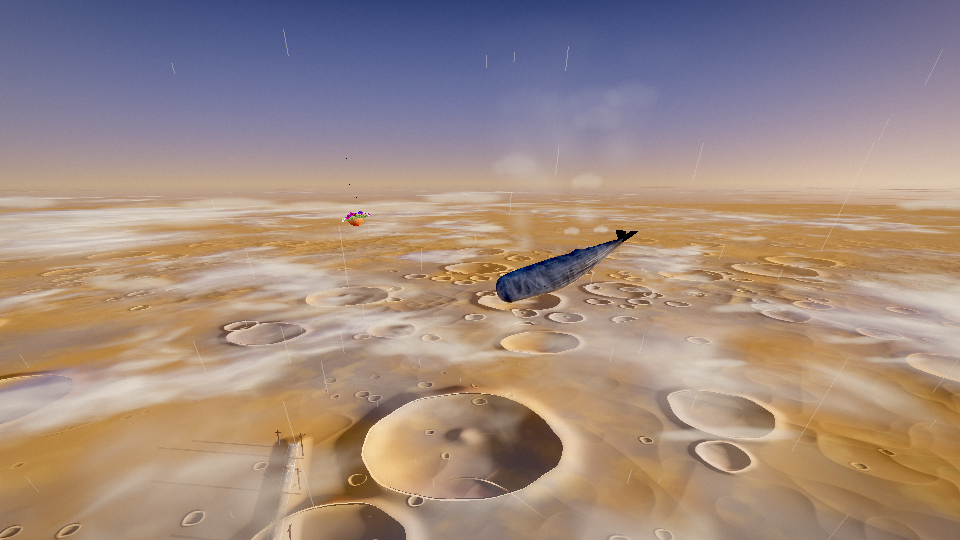
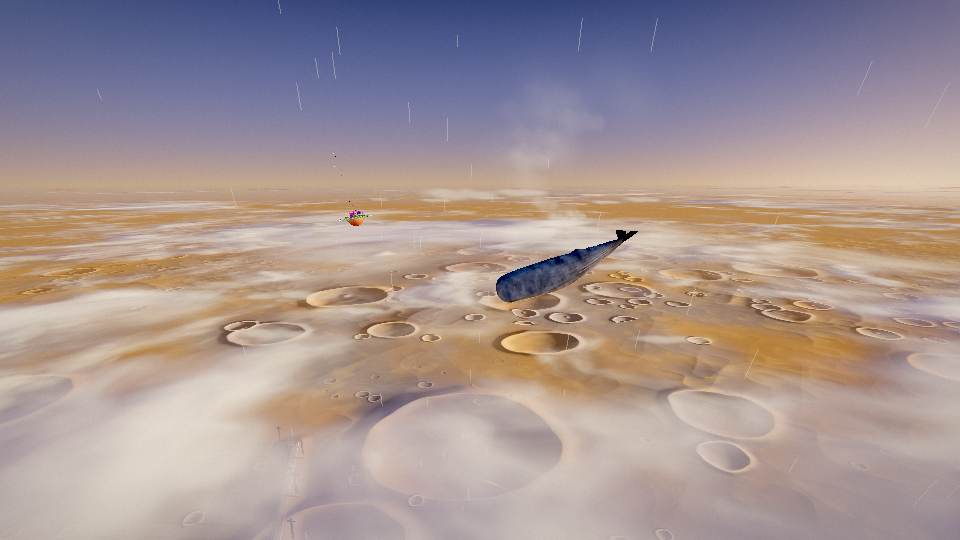
Update Hitchhiker's world drafts in progress
Claude-Session: https://claude.ai/code/session_014rHGNtLvWQpNyDwLLDYadp

diff --git a/src/worlds/the-sky-over-krikkit.js b/src/worlds/the-sky-over-krikkit.js
@@ -223,12 +223,12 @@ void main() {
   gl_Position = projectionMatrix * mv;
 }`;
 const PUFF_FRAG = /* glsl */`
-uniform sampler2D uTex; uniform vec3 fogColor; uniform float fogDensity, uOpacity, uStar, uAbove, uNear;
+uniform sampler2D uTex; uniform vec3 fogColor; uniform float fogDensity, uOpacity, uStar, uAbove, uNear, uInside;
 varying vec2 vUv; varying float vDepth, vLit, vKind, vSeed;
 void main() {
   vec2 uv = vUv; if (vSeed > 0.5) uv.x = 1.0 - uv.x;
   vec4 t = texture2D(uTex, uv);
-  float a = t.a * uOpacity * smoothstep(uNear * 0.2, uNear, vDepth);
+  float a = t.a * uOpacity * smoothstep(uNear * 0.2, uNear, vDepth) * clamp(vLit * 6.0 + uInside, 0.0, 1.0);
   if (a < 0.004) discard;
   vec3 dust = mix(vec3(0.020, 0.017, 0.024), vec3(0.060, 0.052, 0.066), t.r);
   vec3 warm = vec3(1.0, 0.52, 0.20) * vLit * (0.25 + 0.75 * t.r);
@@ -351,7 +351,7 @@ export default {
 
     // ---- the road of the flight ----
     const gy = (x, z, up) => height(x, z) + up;
-    const PTS = [[-40, gy(-40, 140, 34), 140], [-30, gy(-30, 0, 32), 0], [8, gy(8, -165, 30) + 6, -165], [34, gy(34, -330, 32), -330], [12, gy(12, -500, 34), -500],
+    const PTS = [[-40, gy(-40, 140, 34), 140], [-30, gy(-30, 0, 32), 0], [-14, gy(-14, -165, 30) + 7, -165], [34, gy(34, -330, 32), -330], [12, gy(12, -500, 34), -500],
       [-10, gy(-10, -680, 36), -680], [0, gy(0, -860, 40), -860], [0, PAD_Y + 56, -1010], [0, 330, -1160], [0, 640, -1330], [0, 1000, -1520], [0, 1340, -1720],
       [0, 1590, -1930], [0, 1700, -2160], [0, TOP_Y, -2400], [0, TOP_Y, -2640]];
     const path = makePath(PTS), LEN = path.length;
@@ -420,7 +420,8 @@ export default {
     // the bridge: where the main lane meets the river
     let BZ = -170; for (let i = 0; i < 12; i++) BZ = riverZ(laneX(BZ));
     const BX = laneX(BZ), BRIDGE_Y = waterY(BX) + 4.6;
-    const laneY = (x, z) => { const d = Math.hypot(x - BX, z - BZ); return d < 30 ? Math.max(height(x, z), BRIDGE_Y - 0.25 - 2.2 * (d / 30) ** 2 * 0) : height(x, z); };
+    const bridgeTop = (d) => (d <= 30 ? BRIDGE_Y + 1.5 * (1 - (d / 30) ** 2) : BRIDGE_Y - (d - 30) * 0.3);
+    const laneY = (x, z) => { const d = Math.hypot(x - BX, z - BZ); return d < 46 ? Math.max(height(x, z), bridgeTop(d)) : height(x, z); };
     // walk a lane: points every `step` metres with the lane's direction
     function walk(poly, step, fn) {
       let carry = 0;
@@ -455,6 +456,8 @@ export default {
       } else parts.push([BOX, '#2a2019', M(0, 1.9, k.d / 2 + 0.05, 4.2, 3.8, 0.12)], [BOX, '#2a2019', M(0, k.h + 0.9, k.d / 2 + 0.05, 1.2, 1.2, 0.1)]);
       return keep(mergeGeo(parts));
     });
+    const HALL = [GREEN[0] - GREEN_R - 42, GREEN[1] + 44], MILL = [-196, riverZ(-196) - 21];
+    const blocks = [{ x: HALL[0], z: HALL[1], r: 15 }, { x: MILL[0], z: MILL[1], r: 13 }];      // ground kept for the hall and the mill
     const houses = [], winM = [], winC = [], RH = R.houses;
     const _m = new THREE.Matrix4(), _c = new THREE.Color();
     const WINCOL = [[2.6, 1.6, 0.62], [2.8, 1.35, 0.42], [2.3, 1.75, 0.9], [2.9, 1.9, 0.7], [1.5, 1.7, 2.0]];
@@ -492,7 +495,8 @@ export default {
     const houseOK = (x, z, r, top) => {
       if (riverDist(x, z) < 27 + r * 0.4) return false;
       if (Math.hypot(x - HILL[0], z - HILL[1]) < 215 || Math.hypot(x - KNOLL[0], z - KNOLL[1]) < 44) return false;
-      if (Math.hypot(x - GREEN[0], z - GREEN[1]) < GREEN_R + 20 + r * 0.5) return false;
+      if (Math.hypot(x - GREEN[0], z - GREEN[1]) < GREEN_R + 15 + r * 0.3) return false;
+      for (const b of blocks) if (Math.hypot(b.x - x, b.z - z) < b.r + r) return false;
       if (!clearOfRoad(x, z, height(x, z) + top)) return false;
       for (const h of houses) if (Math.hypot(h.x - x, h.z - z) < h.r + r + 2.5) return false;
       return true;
@@ -511,7 +515,7 @@ export default {
       });
     }
     settle(lanes.main.filter((p) => p[1] > -770), 19, [1, -1], 0.86, [0, 0, 1, 2, 0, 2]);
-    settle(lanes.ring, 19, [1], 0.95, [2, 2, 0, 1]);      // the ring's right hand is outward: the houses face the green
+    settle(lanes.ring, 19, [-1], 0.95, [2, 2, 0, 1]);      // outward of the ring: the houses face the green
     settle(lanes.south, 21, [1, -1], 0.7, [0, 1, 0, 3]);
     settle(lanes.north, 22, [-1], 0.7, [0, 1, 2]);
     settle(lanes.east, 22, [1, -1], 0.75, [0, 1, 2, 0, 3]);
@@ -568,12 +572,12 @@ export default {
     // the bridge: a stone hump with parapets, two piers, a lamp at each corner
     {
       const ry = Math.atan2(laneX(BZ - 4) - laneX(BZ + 4), -8), parts = [];
-      for (let i = -4; i <= 4; i++) { const zz = i * 4, hump = 1.5 * (1 - (i / 4.6) ** 2); parts.push([BOX, '#7d776d', M(0, hump - 0.5, zz, 6.4, 1.0, 4.3, 0, -Math.atan(-2 * 1.5 * i / (4.6 * 4.6) / 4) * 0)]);
+      for (let i = -7; i <= 7; i++) { const zz = i * 4, hump = 1.5 * (1 - (zz / 30) ** 2); parts.push([BOX, '#7d776d', M(0, hump - 0.75, zz, 6.4, 1.5, 4.3)]);
         for (const sx of [-1, 1]) parts.push([BOX, '#8a847a', M(sx * 3.0, hump + 0.45, zz, 0.5, 1.0, 4.3)]); }
-      for (const pz of [-7, 7]) parts.push([BOX, '#6a655d', M(0, -3.2, pz, 6.0, 6.0, 2.2)]);
+      for (const pz of [-9, 0, 9]) parts.push([BOX, '#6a655d', M(0, -3.0, pz, 6.0, 7.0, 2.2)]);
       addSet(parts, BX, BRIDGE_Y, BZ, ry, new THREE.Color(1.5, 1.25, 1.0));
       const L = local(BX, BZ, ry);
-      for (const [lx, lz] of [[-3, -17], [3, -17], [-3, 17], [3, 17], [-3, 0], [3, 0]]) { const p = L(lx, lz); lamp(p[0], BRIDGE_Y + (lz === 0 ? 4.4 : 3.6), p[1], WARM, 2.6, 9, 1.1); }
+      for (const [lx, lz] of [[-3, -27], [3, -27], [-3, 27], [3, 27], [-3, -9], [3, 9]]) { const p = L(lx, lz); lamp(p[0], bridgeTop(Math.abs(lz)) + 1.9, p[1], WARM, 2.6, 9, 1.1); }
     }
     // the green: a pavilion on its north side, a pole in the middle with strings of lights out to a ring of poles
     const poleM = [];
@@ -602,11 +606,11 @@ export default {
     }
     // the meeting hall with its bell tower, west of the green
     {
-      const x = GREEN[0] - GREEN_R - 34, z = GREEN[1] + 44, y = height(x, z), parts = [];
+      const x = HALL[0], z = HALL[1], y = height(x, z), parts = [];
       parts.push([BOX, '#d9d5ca', M(0, 3.4, 0, 9, 7.6, 18)], [PRISM, '#2c3038', M(0, 7.2, 0, 10.2, 4.6, 19)], [BOX, '#d2cec3', M(0, 7.5, 11.2, 5.2, 15.8, 5.2)],
         [BOX, '#3a3f49', M(0, 15.6, 11.2, 5.9, 0.3, 5.9)], [CONE, '#2c3038', M(0, 18.6, 11.2, 4.0, 6.0, 4.0, Math.PI / 4)], [BOX, '#2f241b', M(0, 1.5, 13.84, 2.0, 3.0, 0.12)]);
-      if (houseOK(x, z, 12, 22)) {
-        addSet(parts, x, y, z, 0, new THREE.Color(1.35, 1.2, 1.0)); houses.push({ x, z, r: 13 });
+      {
+        addSet(parts, x, y, z, 0, new THREE.Color(1.35, 1.2, 1.0));
         for (let i = 0; i < 4; i++) for (const sx of [-1, 1]) { winM.push(M(x + sx * 4.56, y + 3.9, z - 6 + i * 4, 0.1, 3.0, 1.1)); winC.push(2.9, 1.9, 0.75); stamp(x + sx * 8, z - 6 + i * 4, 6, WARM, 0.6); }
         for (const [dx, dz, tw] of [[0, 2.66, 0], [2.66, 0, 1], [-2.66, 0, 1]]) { winM.push(M(x + dx, y + 13.2, z + 11.2 + dz, tw ? 0.1 : 1.2, 1.8, tw ? 1.2 : 0.1)); winC.push(2.6, 1.7, 0.7); }
         lamp(x + 1.8, y + 3.4, z + 14.3, WARM, 2.4, 9, 1.1);
@@ -615,9 +619,9 @@ export default {
     // the mill on the north bank, its wheel in the water
     let wheel = null;
     {
-      const x = -196, z = riverZ(-196) - 21, y = height(x, z), wy = waterY(x), parts = [];
+      const x = MILL[0], z = MILL[1], y = height(x, z), wy = waterY(x), parts = [];
       parts.push([BOX, '#9a9388', M(0, 3.8, 0, 11, 8.6, 9)], [PRISM, '#3a2f26', M(0, 8.0, 0, 10.2, 4.2, 12, Math.PI / 2)], [BOX, '#6b655c', M(0, 0.6, 7, 3, 2.4, 6)]);
-      addSet(parts, x, y, z, 0, new THREE.Color(1.3, 1.15, 1.0)); houses.push({ x, z, r: 11 });
+      addSet(parts, x, y, z, 0, new THREE.Color(1.3, 1.15, 1.0));
       const wp = [[CYL, '#3a2c20', M(0, 0, 0, 0.5, 2.6, 0.5, 0, 0, Math.PI / 2)]];
       for (let i = 0; i < 12; i++) { const a = i / 12 * 6.283; wp.push([BOX, '#4a3828', M(0, Math.cos(a) * 2.4, Math.sin(a) * 2.4, 0.16, 4.8, 0.16, 0, a)], [BOX, '#5a4634', M(0, Math.cos(a) * 4.6, Math.sin(a) * 4.6, 2.2, 0.12, 1.3, 0, a)]); }
       for (const sx of [-1, 1]) wp.push([keep(new THREE.TorusGeometry(4.7, 0.14, 5, 28)), '#4a3828', M(sx * 1.0, 0, 0, 1, 1, 1, Math.PI / 2)]);
@@ -724,7 +728,7 @@ export default {
     }
     const LAMP_GAIN = 9;
     // what a standing thing takes from the lamps round it: a tint over its own colour
-    const tintAt = (x, z, base = 1, k = 4.2) => { const l = Math.min(2.2, lampAt(x, z)); return _c.setRGB(base * (1 + l * k * 1.25), base * (1 + l * k * 0.85), base * (1 + l * k * 0.4)); };
+    const tintAt = (x, z, base = 1, k = 4.2) => { const l = Math.min(1.4, lampAt(x, z)); return _c.setRGB(base * (1 + l * k * 1.25), base * (1 + l * k * 0.85), base * (1 + l * k * 0.4)); };
     await ctx.yield();
 
     // =====================================================================================================
@@ -926,8 +930,9 @@ export default {
     // the fire's own glare: one big soft point that goes with the ship
     const flareU = { ...FOGU(), uTime, uPx, uMax: { value: 700 }, uGain: { value: 0 } };
     const flarePos = new Float32Array(6);
+    let flareGeo;
     {
-      const g = keep(new THREE.BufferGeometry());
+      const g = flareGeo = keep(new THREE.BufferGeometry());
       g.setAttribute('position', new THREE.BufferAttribute(flarePos, 3)); g.setAttribute('aCol', new THREE.BufferAttribute(new Float32Array([2.4, 1.5, 0.7, 0.9, 0.42, 0.14]), 3));
       g.setAttribute('aSize', new THREE.BufferAttribute(new Float32Array([26, 130]), 1)); g.setAttribute('aPh', new THREE.BufferAttribute(new Float32Array([0.2, 0.7]), 1));
       const pts = new THREE.Points(g, keep(new THREE.ShaderMaterial({ uniforms: flareU, vertexShader: GLOW_VERT, fragmentShader: GLOW_FRAG, fog: true, transparent: true, depthWrite: false, blending: THREE.AdditiveBlending })));
@@ -965,7 +970,7 @@ export default {
       list.forEach((p, i) => { iPos.set([p[0], p[1], p[2]], i * 3); iSize.set([p[3], p[4]], i * 2); iSeed[i] = R.cloud(); iKind[i] = p[5]; iTrail.set(nearTrail(p[0], p[1], p[2]), i * 2); });
       g.setAttribute('iPos', new THREE.InstancedBufferAttribute(iPos, 3)); g.setAttribute('iSize', new THREE.InstancedBufferAttribute(iSize, 2)); g.setAttribute('iSeed', new THREE.InstancedBufferAttribute(iSeed, 1));
       g.setAttribute('iTrail', new THREE.InstancedBufferAttribute(iTrail, 2)); g.setAttribute('iKind', new THREE.InstancedBufferAttribute(iKind, 1)); g.instanceCount = n;
-      const uniforms = { ...FOGU(), uTex: { value: puffTex }, uShip, uFlame, uShipQ, uStar, uAbove, uScale: { value: 1 }, uOpacity: { value: 1 }, uNear: { value: 150 }, uLitR: { value: 190 }, ...extra };
+      const uniforms = { ...FOGU(), uTex: { value: puffTex }, uShip, uFlame, uShipQ, uStar, uAbove, uScale: { value: 1 }, uOpacity: { value: 1 }, uInside: { value: 1 }, uNear: { value: 150 }, uLitR: { value: 190 }, ...extra };
       const mesh = new THREE.Mesh(g, keep(new THREE.ShaderMaterial({ uniforms, vertexShader: PUFF_VERT, fragmentShader: PUFF_FRAG, fog: true, transparent: true, depthWrite: false })));
       mesh.frustumCulled = false; scene.add(mesh); return { mesh, uniforms };
     }
@@ -1062,7 +1067,7 @@ export default {
     // =====================================================================================================
     const eye = new THREE.Vector3(), shipPos = new THREE.Vector3(), shipTan = new THREE.Vector3(), buf = new THREE.Vector2(), fogC = new THREE.Color();
     const shipAt = (u, out) => trailPoint(shipQ(u), out);
-    const flameAt = (u) => (u < U_L ? 0.16 * ss(0.0, 0.03, u) + 0.1 : u < U_E ? ss(U_L, U_L + 0.025, u) * 0.75 + 0.25 : 1 - ss(U_E, U_E + 0.02, u));
+    const flameAt = (u) => (u < U_L ? 0.07 + 0.08 * ss(0.04, U_L, u) : u < U_E ? ss(U_L, U_L + 0.025, u) * 0.75 + 0.25 : 1 - ss(U_E, U_E + 0.02, u));
     function update(dt, time, camera, u = 0) {
       uTime.value = time;
       if (ctx.renderer) { ctx.renderer.getDrawingBufferSize(buf); uPx.value = buf.y / (2 * Math.tan((camera.fov || 62) * Math.PI / 360)); uPxS.value = buf.y / 760; }
@@ -1079,9 +1084,9 @@ export default {
       if (u >= U_E) ship.rotateZ(0.5 * ss(U_E, 1, u) + 0.05 * Math.sin(time * 0.5));      // spent, she lies over and stops, and so do they
       flame.visible = fl > 0.02; flame.scale.set(0.6 + 0.6 * fl, (0.25 + 1.5 * fl) * flick, 0.6 + 0.6 * fl);
       uShip.value.copy(shipPos); uShipQ.value = q; uFlame.value = fl * flick;
-      fire.position.copy(shipPos); fire.position.y += 3; fire.intensity = 52000 * fl * flick;
+      fire.position.copy(shipPos); fire.position.y += 3; fire.intensity = 30000 * fl * flick;
       flarePos.set([shipPos.x - shipTan.x * 3, shipPos.y - shipTan.y * 3, shipPos.z - shipTan.z * 3, shipPos.x - shipTan.x * 6, shipPos.y - shipTan.y * 6, shipPos.z - shipTan.z * 6]);
-      flareU.uGain.value = fl * flick * 1.5; flareU.uTime.value = time;
+      flareGeo.attributes.position.needsUpdate = true; flareU.uGain.value = fl * flick * 1.5;
       // the air: clear night below, dust in the cloud, nothing above it
       const inDust = ss(CLOUD_LO - 140, CLOUD_LO + 160, y) * (1 - ss(CLOUD_HI - 190, CLOUD_HI + 30, y)), above = ss(CLOUD_HI - 70, CLOUD_HI + 110, y);
       scene.fog.density = lerp(lerp(0.00055, 0.0033, inDust), 0.00002, above);
@@ -1091,7 +1096,7 @@ export default {
       // the stars: none at all until the top of the cloud
       const show = ss(CLOUD_HI - 120, CLOUD_HI + 200, y);
       sky.visible = show > 0.001; uShow.value = show; uStar.value = show; uAbove.value = above;
-      dustIn.mesh.visible = y < CLOUD_HI + 260 && y > 60; deck.visible = y > CLOUD_HI - 55;
+      dustIn.mesh.visible = y < CLOUD_HI + 260; dustIn.uniforms.uInside.value = ss(CLOUD_LO - 260, CLOUD_LO - 40, y); deck.visible = y > CLOUD_HI - 55;
       dustIn.uniforms.uOpacity.value = 0.9; dustTop.uniforms.uOpacity.value = 0.96;
       // the pad's smoke swells and thins
       const since = Math.max(0, u - U_L + 0.012);

diff --git a/src/worlds/outside-the-asylum.js b/src/worlds/outside-the-asylum.js
@@ -190,7 +190,16 @@ export default {
             float fres = pow(1.0 - max(dot(N, V), 0.0), 3.0);
             vec3 col = mix(lin(vec3(0.40, 0.30, 0.20)), skyMirror(reflect(-V, N), uSun), 0.10 + fres * 0.5);
             col += lin(vec3(1.0, 0.82, 0.55)) * pow(max(dot(N, normalize(uSun + V)), 0.0), 220.0) * 2.0;
-            gl_FragColor = vec4(col, wetK * (0.45 + 0.3 * fres));
+            float a = wetK * (0.45 + 0.3 * fres);
+            // the last wave's thin film, sliding up and back in step with the sea, with a rim of foam; and the lace older waves left
+            float fe = 87.0 - 4.2 * sin(uTime * 0.55 + vW.x * 0.012) - 1.8 * sin(uTime * 0.31 + vW.x * 0.031) + (n - 0.5) * 5.0;
+            float film = smoothstep(fe - 0.4, fe + 1.2, vW.z);
+            col = mix(col, skyMirror(reflect(-V, N), uSun) * 0.95 + lin(vec3(0.10, 0.20, 0.20)) * 0.3, film * (0.4 + 0.55 * fres)); a = mix(a, 0.9, film);
+            float h2 = vnoise(vW.xz * 1.9), rim = smoothstep(1.3, 0.0, abs(vW.z - fe - 0.3)) * (0.55 + 0.45 * h2);
+            float lace = smoothstep(0.07, 0.0, abs(fract((vW.z + n * 16.0 + sin(vW.x * 0.07) * 2.0) * 0.14) - 0.5)) * smoothstep(0.45, 0.8, h2) * (1.0 - film) * wetK * 0.6;
+            col = mix(col, lin(vec3(1.0, 0.96, 0.90)), clamp(rim + lace, 0.0, 1.0)); a = max(a, clamp(rim + lace, 0.0, 1.0) * wetK);
+            col += lin(vec3(1.0, 0.9, 0.7)) * step(0.985, vnoise(vW.xz * 9.0)) * wetK * 0.6;      // grains that catch the sun
+            gl_FragColor = vec4(col, a);
           }`,
       })));
     }
@@ -710,7 +719,7 @@ export default {
       let k = 0;
       for (let t = 0; t < n * 8 && k < n; t++) {
         const x = rng.range(-560, 560), z = rng.range(-560, 64), d = Math.hypot(x, z);
-        if (d < 60 || noise.fbm2(x * 0.018 + 9, z * 0.018, 2) < -0.02) continue;
+        if (d < 60 || Math.hypot(x - BOWLS[0], z - BOWLS[1]) < 11 || noise.fbm2(x * 0.018 + 9, z * 0.018, 2) < -0.02) continue;
         const cl = rng.int(1, 4);      // a clump of tufts
         for (let j = 0; j < cl && k < n; j++) {
           const cx = x + rng.range(-1.6, 1.6), cz = z + rng.range(-1.6, 1.6), s = rng.range(1.6, 3.8);

diff --git a/src/worlds/the-day-of-the-answer.js b/src/worlds/the-day-of-the-answer.js
@@ -174,9 +174,11 @@ export default {
     const bronze = keep(new THREE.MeshStandardMaterial({ color: '#8a5a2c', roughness: 0.5, metalness: 0.2 }));
     const bronzeLit = keep(new THREE.MeshStandardMaterial({ color: '#b07a3a', roughness: 0.45, metalness: 0.2 }));
     {
-      box(-200, -HALL_W, 0, 120, FRONT_Z, BACK_Z, stone); box(HALL_W, 200, 0, 120, FRONT_Z, BACK_Z, stone);      // tier 1, either side of the hall
+      // tier 1, either side of the hall and then of the wider chamber (each mass's inner face stands behind the room's own lining)
+      for (const s of [-1, 1]) { box(s * HALL_W, s * 200, 0, 120, FRONT_Z, CH_Z, stone); box(s * (CH_W + 1), s * 200, 0, 120, CH_Z, BACK_Z, stone); }
       box(-HALL_W, HALL_W, HALL_H, 120, FRONT_Z, CH_Z, stone);                                                     // over the hall
-      box(-HALL_W, HALL_W, CH_H + 0.6, 120, CH_Z, BACK_Z, stone);                                                  // over the chamber
+      box(-CH_W - 1, CH_W + 1, CH_H + 0.6, 120, CH_Z, BACK_Z, stone);                                              // over the chamber
+      box(-CH_W - 1, CH_W + 1, 0, CH_H + 0.6, FACE_Z - 41.2, BACK_Z, stone);                                       // behind the console
       box(-HALL_W, HALL_W, DOOR_H, HALL_H, FRONT_Z, FRONT_Z - 26, stone);                                         // the lintel
       box(-150, 150, 120, 200, FRONT_Z - 40, BACK_Z + 40, stone);
       box(-100, 100, 200, 270, FRONT_Z - 80, BACK_Z + 80, stone);
